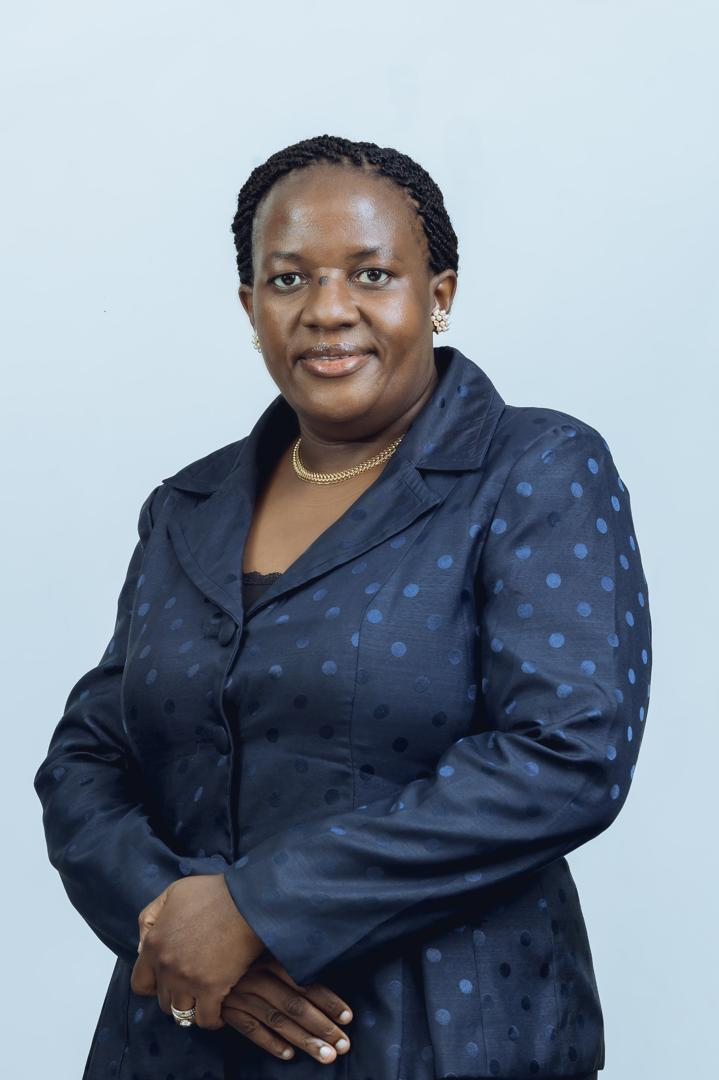
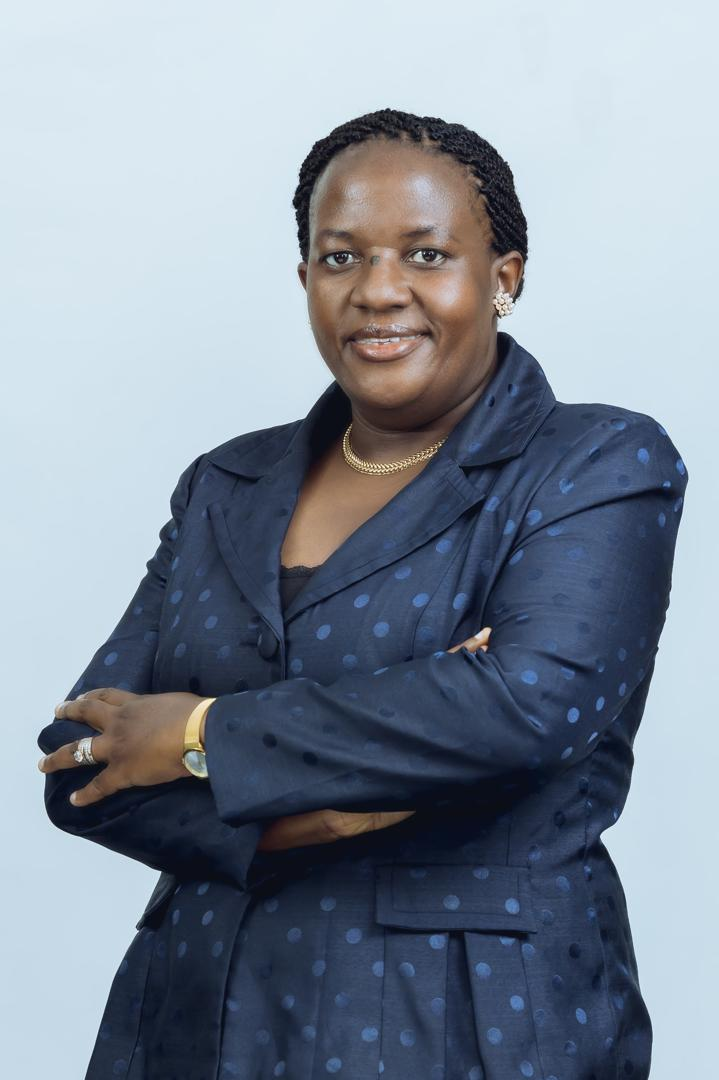
new-03

diff --git a/frontend/src/app/[...slug]/page.tsx b/frontend/src/app/[...slug]/page.tsx
@@ -598,12 +598,12 @@ const contentPages: Record<string, AboutPageContent> = {
       director: {
         name: "Assoc. Prof. Annabella Habinka Ejiri",
         title: "Director Quality Assurance",
-        image: "",
+        image: "/qa.jpeg",
         message:
           "Welcome to the Directorate of Quality Assurance and Control (DQA&C) at King Ceasor University. We are dedicated to promoting excellence in teaching, learning, research, and service through effective quality assurance practices. As the University's focal point for quality reviews and continuous improvement initiatives, we work closely with staff, students, and stakeholders to uphold high academic and operational standards. We invite you to explore our services and quality initiatives, and encourage you to contact us for any additional information or support.",
       },
       staff: [
-        { name: "Dr. Annabella Habinka Ejiri", role: "Director Quality Assurance", image:"/qa.jpeg "},
+        { name: "Dr. Annabella Habinka Ejiri", role: "Director Quality Assurance", image:"/qa.jpeg"},
         { name: "Ms. Atuhwera Joanita", role: "Quality Assurance Monitoring Officer", image:"/Joanita.jpeg" },
         { name: "Mr. Ayebale John Justice", role: "Clinical Monitoring Officer", image:"/" },
         { name: "Ms. Grace Asingwire", role: "Quality Assurance Officer", image:"/Grace.jpg" },
@@ -2043,32 +2043,30 @@ function AboutContentPage({ page }: { page: AboutPageContent }) {
 
               {page.qualityAssurance && (
                 <>
-                  <section className="overflow-hidden rounded-3xl border border-slate-100 bg-white shadow-xl shadow-slate-900/5">
-                    <div className="grid gap-0 lg:grid-cols-[380px_1fr]">
-                      <div className="relative min-h-[360px] bg-slate-200">
+                  <section className="grid gap-6 lg:grid-cols-[380px_1fr] lg:items-stretch">
+                    <article className="overflow-hidden rounded-3xl border border-slate-100 bg-white shadow-xl shadow-slate-900/5">
+                      <div className="relative min-h-[420px] bg-slate-200">
                         <QualityAssurancePhoto
                           src={page.qualityAssurance.director.image}
                           alt={page.qualityAssurance.director.name}
                           sizes="(min-width: 1024px) 380px, 100vw"
-                          className="object-contain p-6"
+                          className="object-cover object-top"
                         />
                         <div className="absolute inset-0 bg-gradient-to-t from-black/70 via-black/10 to-transparent" />
                         <div className="absolute bottom-0 left-0 right-0 p-6 text-white">
-                          <p className="text-[10px] font-black uppercase tracking-[0.2em] text-[#FFC66B]">Director</p>
                           <h2 className="mt-2 text-2xl font-black leading-tight">{page.qualityAssurance.director.name}</h2>
                           <p className="mt-1 text-sm font-bold text-white/80">{page.qualityAssurance.director.title}</p>
                         </div>
                       </div>
-                      <div className="p-6 sm:p-8 lg:p-10">
-                        <div className="inline-flex size-12 items-center justify-center rounded-2xl bg-[#0B6232] text-[#FFC66B] shadow-lg shadow-[#0B6232]/20">
-                          <ClipboardCheck className="size-6" />
-                        </div>
-                        <p className="mt-6 text-[10px] font-black uppercase tracking-[0.2em] text-[#0B6232]">Message from the Director Quality Assurance</p>
-                        <p className="mt-5 max-w-4xl text-sm leading-7 text-slate-600 sm:text-base sm:leading-8">
-                          {page.qualityAssurance.director.message}
-                        </p>
-                      </div>
-                    </div>
+                    </article>
+
+                    <article className="rounded-3xl border border-slate-100 bg-white p-6 shadow-xl shadow-slate-900/5 sm:p-8 lg:p-10">
+                     
+                      <p className="mt-6 text-[10px] font-black uppercase tracking-[0.2em] text-[#0B6232]">Message from the Director Quality Assurance</p>
+                      <p className="mt-5 max-w-4xl text-base leading-8 text-slate-600 sm:text-lg sm:leading-9">
+                        {page.qualityAssurance.director.message}
+                      </p>
+                    </article>
                   </section>
 
                   <section className="rounded-3xl border border-slate-100 bg-white p-6 shadow-xl shadow-slate-900/5 sm:p-8 lg:p-10">
@@ -2079,25 +2077,23 @@ function AboutContentPage({ page }: { page: AboutPageContent }) {
                       </div>
                       <div className="inline-flex items-center gap-2 text-sm font-bold text-slate-500">
                         <UsersRound className="size-4 text-[#0B6232]" />
-                        <span>6 team positions</span>
+                        <span>Team Members</span>
                       </div>
                     </div>
-                    <div className="mt-7 grid gap-4 sm:grid-cols-2 xl:grid-cols-3">
+                    <div className="mt-8 grid gap-6 sm:grid-cols-2 xl:grid-cols-3">
                       {page.qualityAssurance.staff.map((member) => (
-                        <article key={member.name} className="overflow-hidden rounded-2xl border border-slate-100 bg-slate-50/70">
-                          <div className="relative aspect-[4/3] bg-white">
+                        <article key={member.name} className="rounded-xl border border-slate-100 bg-white p-4 text-center shadow-xl shadow-slate-900/10">
+                          <div className="relative mx-auto aspect-[3/4] w-3/4 overflow-hidden rounded-lg bg-slate-100">
                             <QualityAssurancePhoto
                               src={member.image}
                               alt={member.name}
-                              sizes="(min-width: 1280px) 320px, (min-width: 640px) 50vw, 100vw"
-                              className="object-contain p-3"
+                              sizes="(min-width: 1280px) 210px, (min-width: 640px) 34vw, 75vw"
+                              className="object-cover object-top"
                             />
                           </div>
-                          <div className="p-5">
-                            <div>
-                              <h3 className="text-base font-black leading-snug text-slate-950">{member.name}</h3>
-                              <p className="mt-1 text-sm leading-5 text-slate-500">{member.role}</p>
-                            </div>
+                          <div className="mx-auto px-3 py-5">
+                            <h3 className="text-base font-black leading-tight text-slate-950">{member.name}</h3>
+                            <p className="mt-2 text-sm leading-5 text-slate-500">{member.role}</p>
                           </div>
                         </article>
                       ))}